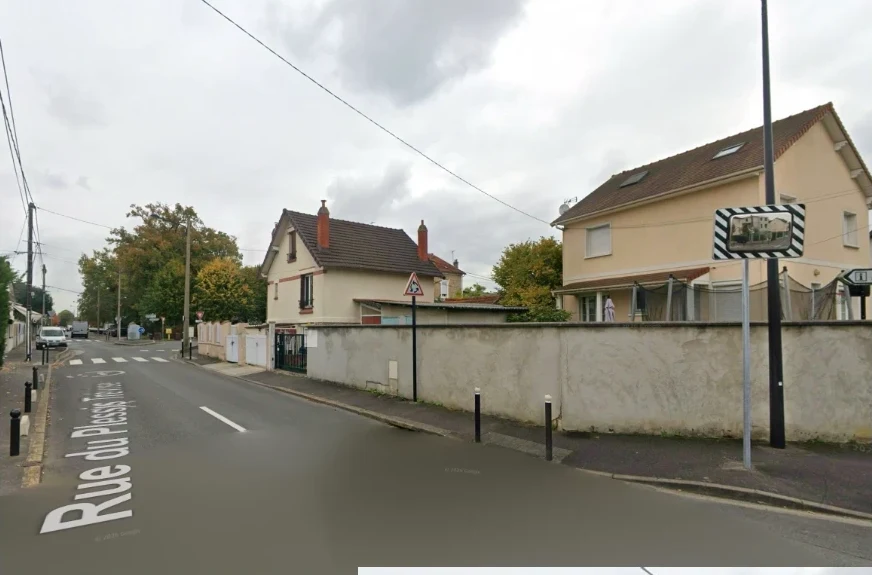
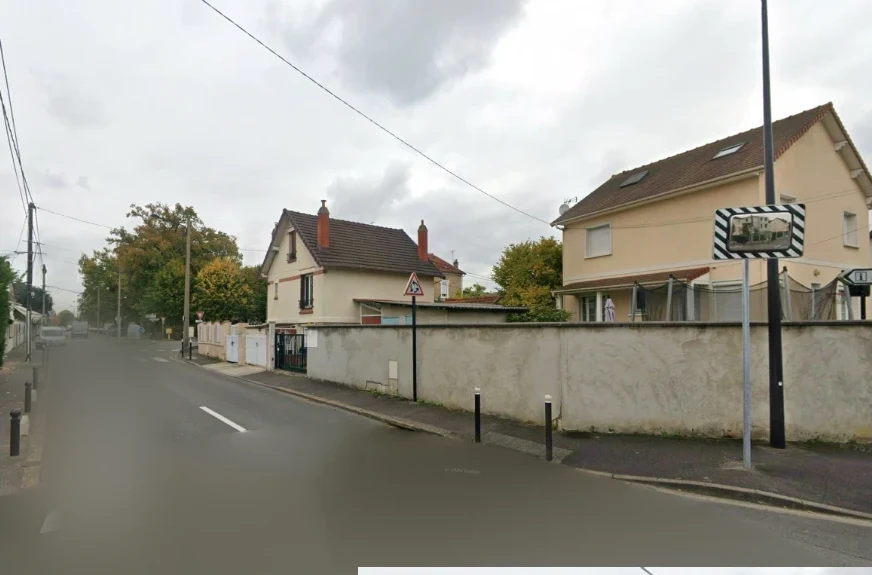
Zernio: blur street names and alternate tips with project posts
- street names removed from the extension street photos (blur) and the
  basement sections (erased on white background)
- November and December calendars merged into
  posts/calendrier-nov-dec-2026.json, alternating tips and project
  showcases (13 posts, 10 Nov - 22 Dec, Tue/Thu 18:30)

Claude-Session: https://claude.ai/code/session_0136MvX55qaDcb6uUszHry6Q

Changed region(s): [[0.0, 0.5322, 0.1858, 0.9461]]

diff --git a/zernio/README.md b/zernio/README.md
@@ -54,13 +54,13 @@ Instagram exige au moins une image ou une vidéo : passez son URL publique avec 
 
 ### Programmer un calendrier de posts
 
-Les posts prêts à l'emploi sont dans `posts/` (ex. `posts/novembre-2026.json` : 8 posts,
+Les posts prêts à l'emploi sont dans `posts/` (ex. `posts/calendrier-nov-dec-2026.json` : 13 posts,
 mardi et jeudi à 18h30). Chaque post a une date, un texte, une idée de visuel et une liste
 `media` à remplir avec les URL publiques des images.
 
 ```bash
-npm run schedule -- posts/novembre-2026.json --dry-run   # vérifier
-npm run schedule -- posts/novembre-2026.json             # programmer
+npm run schedule -- posts/calendrier-nov-dec-2026.json --dry-run   # vérifier
+npm run schedule -- posts/calendrier-nov-dec-2026.json             # programmer
 ```
 
 Un post sans image part uniquement sur Facebook (Instagram exige un visuel).
